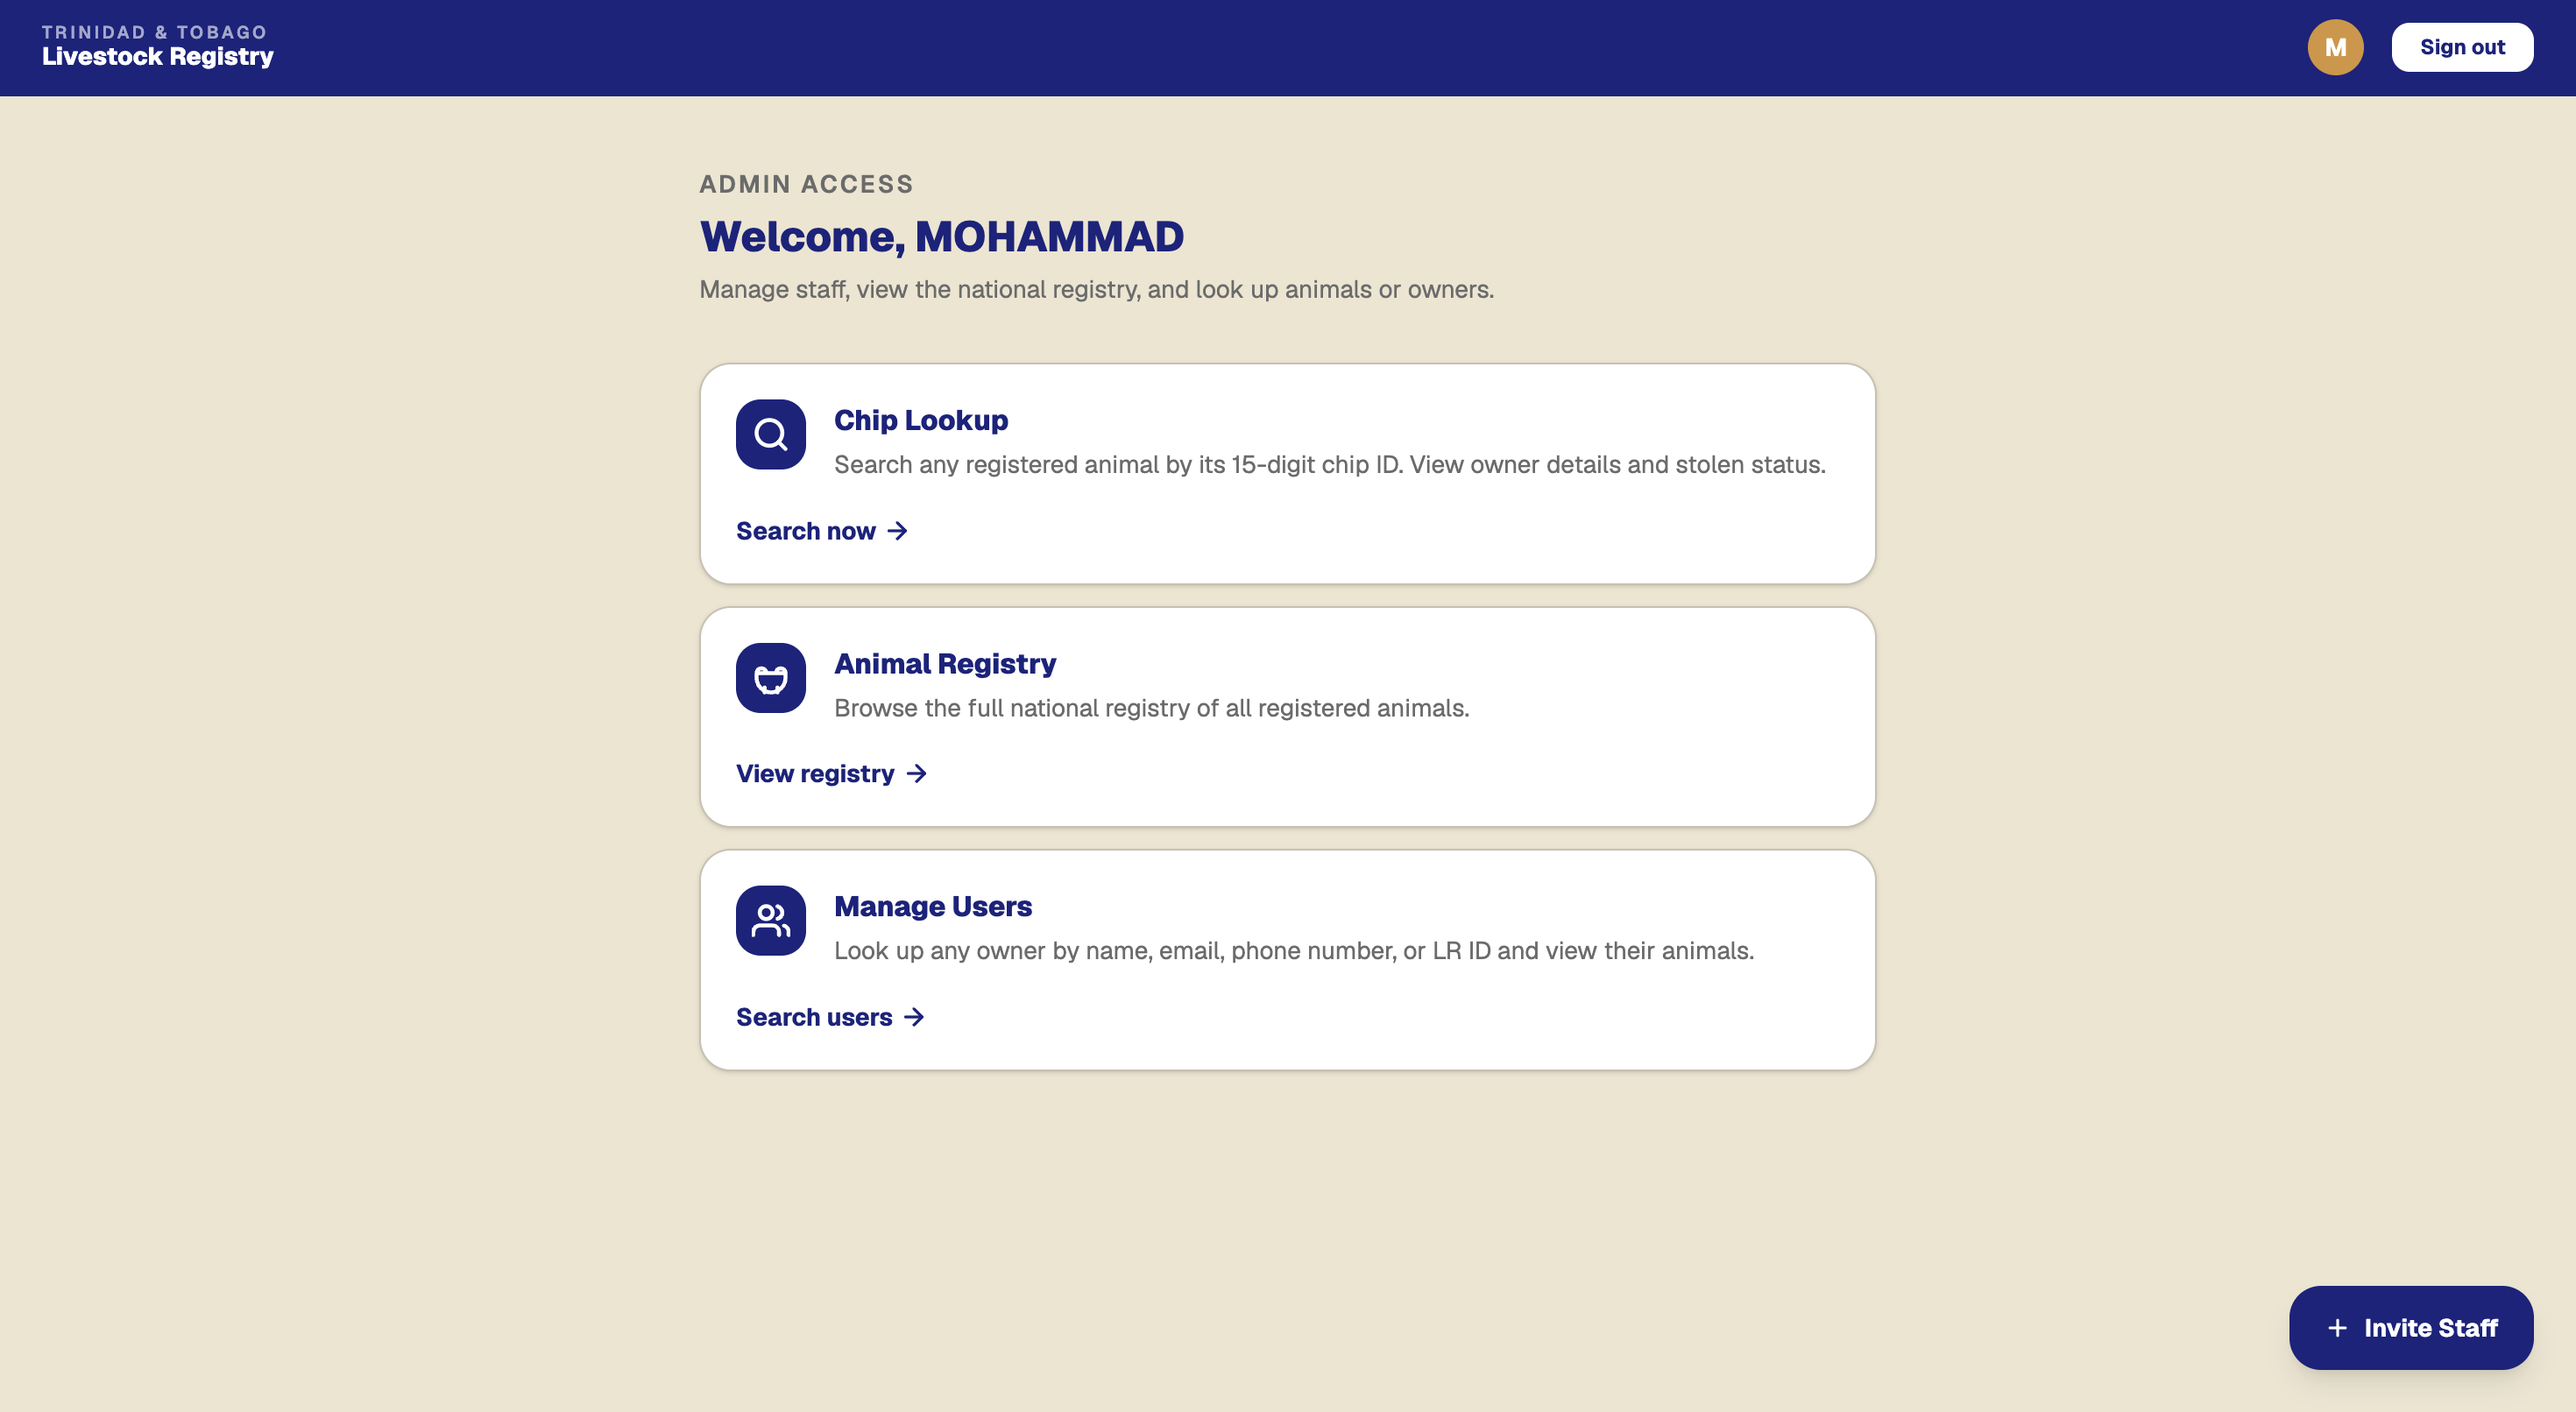
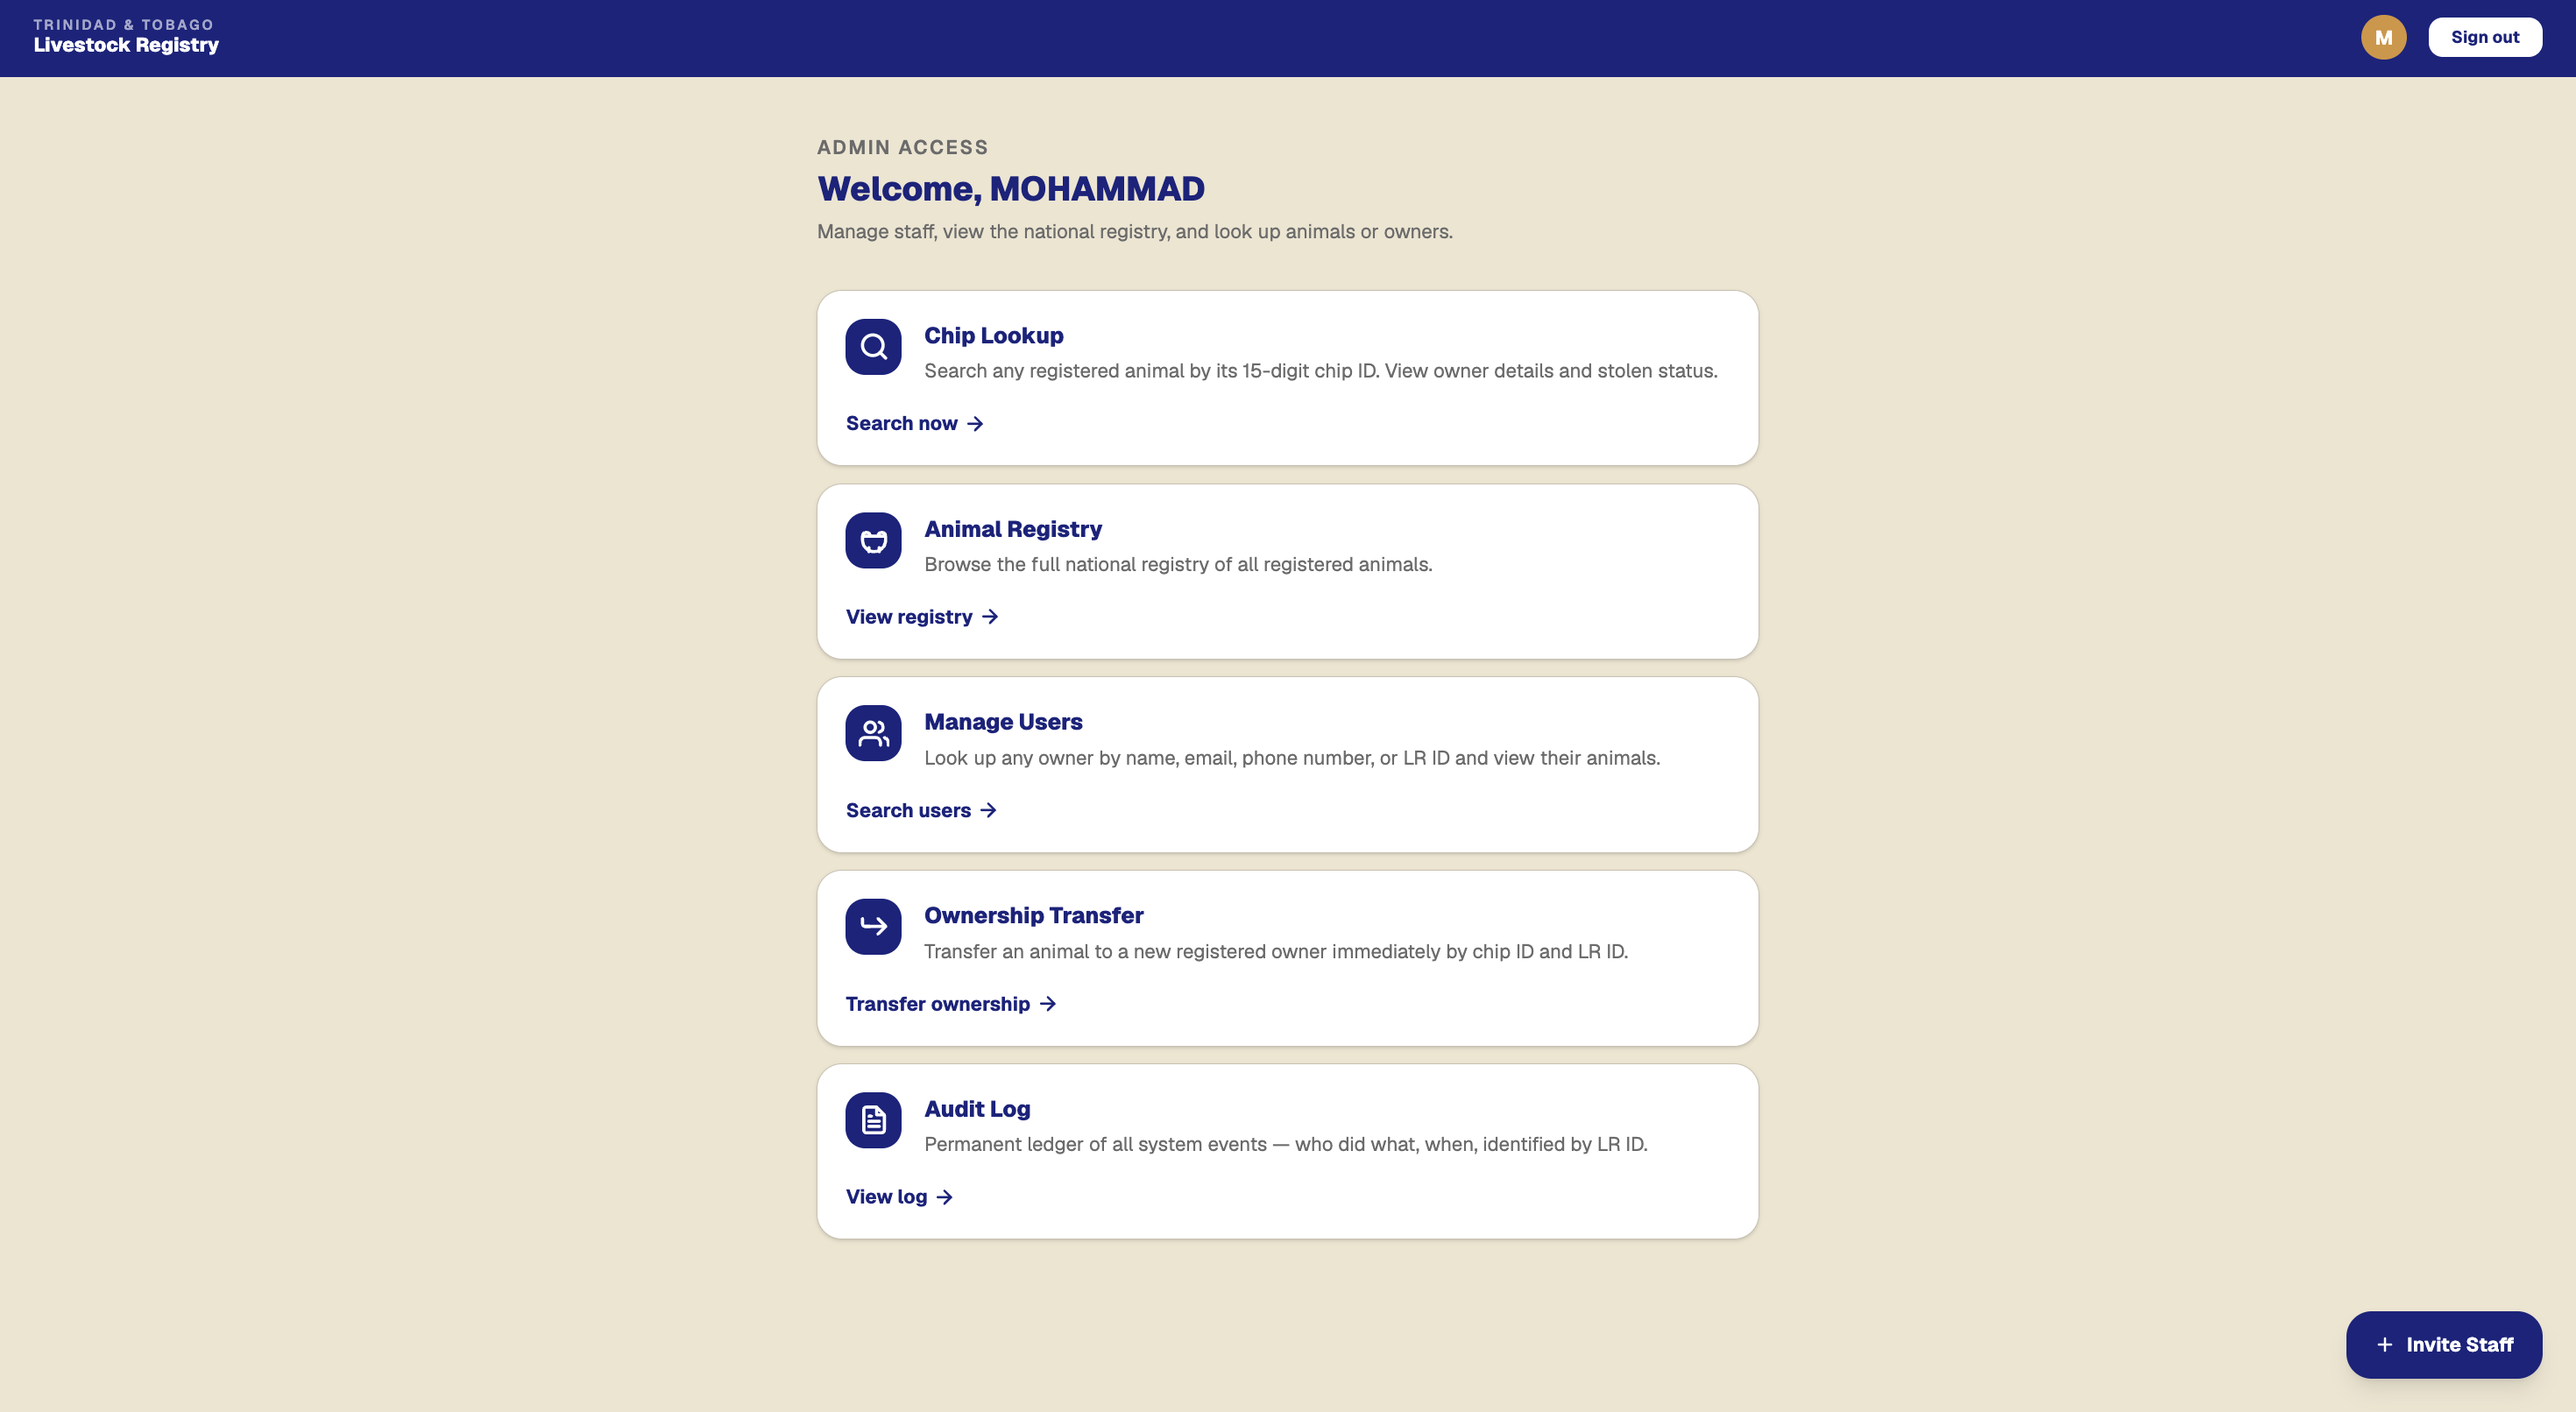
Reposition National Livestock Registry screenshots per role
Each role screenshot (guest, farmer, support, admin) now sits
directly after the bullet describing that role instead of being
grouped into separate galleries. Login screenshot stays in place.

Changed region(s): [[0.0, 0.0, 1.0, 0.8995], [0.8667, 0.8995, 0.9905, 0.9926]]

diff --git a/src/data/projects.ts b/src/data/projects.ts
@@ -154,10 +154,12 @@ export const PROJECTS: Project[] = [
         type: "list",
         items: [
           "Guest: Bluetooth HID scanner-compatible chip lookup. A physical chip reader pairs as a Bluetooth keyboard and types directly into the focused input field. No Web Bluetooth or HID API needed.",
-          "Farmer: Register animals, view personal registry, manage profile",
-          "Support: Full national animal registry and user management",
-          "Admin: Everything in support plus staff invitation system, farmer account creation with real-time password validation, and login activity monitoring",
         ],
+      },
+      { type: "image", images: ["/projects/national-livestock-registry/guest-dashboard.png"] },
+      {
+        type: "list",
+        items: ["Farmer: Register animals, view personal registry, manage profile"],
       },
       {
         type: "image",
@@ -165,6 +167,30 @@ export const PROJECTS: Project[] = [
           "/projects/national-livestock-registry/farmer-dashboard.png",
           "/projects/national-livestock-registry/farmer-lookup.png",
           "/projects/national-livestock-registry/farmer-register.png",
+        ],
+      },
+      {
+        type: "list",
+        items: ["Support: Full national animal registry and user management"],
+      },
+      {
+        type: "image",
+        images: [
+          "/projects/national-livestock-registry/support-dashboard.png",
+          "/projects/national-livestock-registry/support-animal-registry.png",
+        ],
+      },
+      {
+        type: "list",
+        items: [
+          "Admin: Everything in support plus staff invitation system, farmer account creation with real-time password validation, and login activity monitoring",
+        ],
+      },
+      {
+        type: "image",
+        images: [
+          "/projects/national-livestock-registry/admin-dashboard.png",
+          "/projects/national-livestock-registry/admin-audit-log.png",
         ],
       },
       {
@@ -176,14 +202,6 @@ export const PROJECTS: Project[] = [
       {
         type: "paragraph",
         text: "A field-facing app for farmers and vets at the point of scanning. The primary use case is simple: scan a chip with a physical reader and see the animal's owner instantly. The HID scanner pairs as a Bluetooth keyboard and fires searches automatically with no special driver or API needed.",
-      },
-      {
-        type: "image",
-        images: [
-          "/projects/national-livestock-registry/admin-dashboard.png",
-          "/projects/national-livestock-registry/support-dashboard.png",
-          "/projects/national-livestock-registry/animal-registry.png",
-        ],
       },
       { type: "heading", text: "Tech Stack" },
       {
